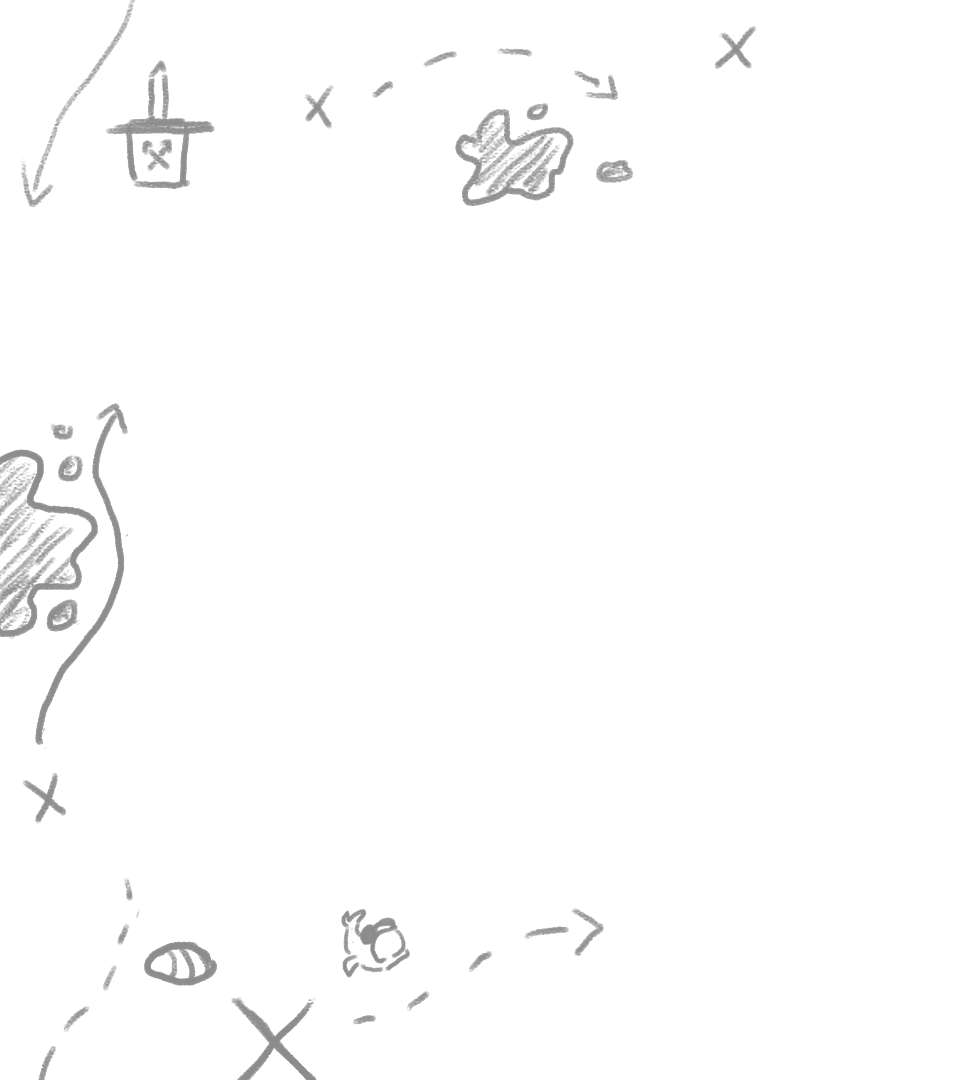
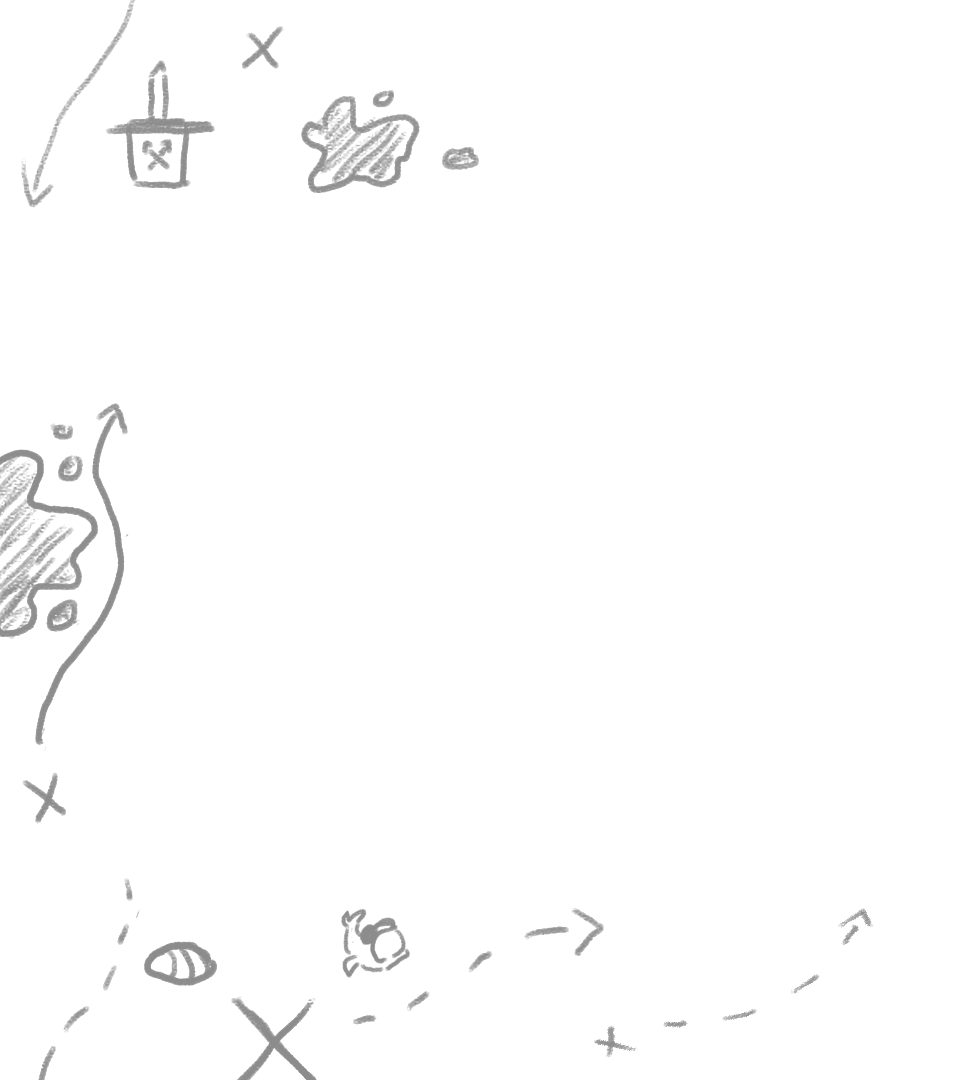
Break screen info bar

diff --git a/graphics/scripts/break.js b/graphics/scripts/break.js
@@ -44,6 +44,7 @@ currentBreakScene.on('change', (newValue, oldValue) => {
                 animDelay = 0.5 + (mapCount * 0.1);
             }
             toggleMainScene(true, animDelay);
+            toggleInfoBar(false);
             toggleNextUp(false);
             break;
         case 'teams':
@@ -54,11 +55,13 @@ currentBreakScene.on('change', (newValue, oldValue) => {
                 animDelay = 0.5 + (mapCount * 0.1);
             }
             toggleNextUp(true, animDelay);
+            toggleInfoBar(true, animDelay);
             break;
         case 'stages':
             toggleMainScene(false, 0);
             toggleNextUp(false);
             toggleStages(true, mapsDelay);
+            toggleInfoBar(true, mapsDelay);
             break;
         default:
             mapCount = toggleStages(false, 0);
@@ -161,6 +164,11 @@ function toggleNextUp(show, delay = 0) {
     }
 }
 
+function toggleInfoBar(show, delay = 0) {
+    const opacity = show ? 1 : 0;
+    gsap.to('.info-bar-wrapper', {opacity: opacity, duration: 0.5, delay: delay});
+}
+
 // Informative texts on main scene
 
 function measureText(text, fontFamily, fontSize, maxWidth, useInnerHTML = false) {
@@ -190,47 +198,36 @@ const breakMainTextProps = {
     maxWidth: 850
 }
 
-function setMainSceneText(textElemID, newText, tl) {
-    let textElem = document.querySelector(`#${textElemID}`);
-    if (textElem.getAttribute('text') === newText) return;
+function setMainSceneText(elem, newText, tl) {
+    if (elem.getAttribute('text') === newText) return;
 
-    tl.add(gsap.fromTo(textElem, {clipPath: 'polygon(0 0, 100% 0, 100% 100%, 0 100%)'}, {
+    let textElem = elem;
+    if (elem.tagName.toLowerCase() !== 'fitted-text') {
+        textElem = elem.querySelector('fitted-text');
+    }
+
+    tl.add(gsap.fromTo(elem, {clipPath: 'polygon(0 0, 100% 0, 100% 100%, 0 100%)'}, {
         ease: 'power1.inOut',
         duration: 0.75,
         clipPath: 'polygon(100% 0, 125% 0, 100% 100%, 100% 100%)',
         opacity: 0.5,
         onComplete: function () {
             textElem.setAttribute('text', newText);
-            textElem.style.clipPath = 'polygon(0 0, 0% 0, 0% 100%, 0% 100%)';
-            textElem.style.opacity = '1';
+            elem.style.clipPath = 'polygon(0 0, 0% 0, 0% 100%, 0% 100%)';
+            elem.style.opacity = '1';
         }
     }));
-    tl.add(gsap.to(textElem, {ease: 'power1.inOut', duration: 0.75, clipPath: 'polygon(0 0, 100% 0, 100% 100%, 0 100%)'}));
+    tl.add(gsap.to(elem, {
+        ease: 'power1.inOut',
+        duration: 0.75,
+        clipPath: 'polygon(0 0, 100% 0, 100% 100%, 0 100%)'
+    }));
 }
 
 const mainTextTL = gsap.timeline();
 
 mainFlavorText.on('change', newValue => {
-    setMainSceneText('breakFlavorText', newValue, mainTextTL);
-});
-
-const casterNamesTL = gsap.timeline();
-
-casters.on('change', newValue => {
-    // let castersText = '';
-    // Object.keys(newValue).forEach((item, index, arr) => {
-    //     const element = newValue[item];
-    //
-    //     castersText += `${element.name} <span class="pronoun">${element.pronouns}</span>`;
-    //
-    //     if (arr[index + 2]) {
-    //         castersText += ', ';
-    //     } else if (arr[index + 1]) {
-    //         castersText += ' & ';
-    //     }
-    // });
-    //
-    // setMainSceneText('breakCastersText', castersText, casterNamesTL);
+    setMainSceneText(document.getElementById('breakFlavorText'), newValue, mainTextTL);
 });
 
 const musicTL = gsap.timeline();
@@ -255,8 +252,12 @@ function getSongNameString(rep) {
 }
 
 NodeCG.waitForReplicants(nowPlaying).then(() => {
+    const topBarMusicTl = gsap.timeline();
+
     nowPlaying.on('change', newValue => {
-        setMainSceneText('breakMusicText', getSongNameString(newValue), musicTL);
+        setMainSceneText(document.getElementById('breakMusicText'), getSongNameString(newValue), musicTL);
+
+        setMainSceneText(document.querySelector('.info-row-music > div'), getSongNameString(newValue), topBarMusicTl);
     });
 });
 
@@ -539,7 +540,7 @@ const twitterLinks = ["@IPLSplatoon",
 
 function startTextLoop(arr, tl, elemID) {
     for (i = 0; i < arr.length; i++) {
-        setMainSceneText(elemID, arr[i], tl);
+        setMainSceneText(document.getElementById(elemID), arr[i], tl);
 
         if (i === arr.length - 1) {
             tl.add(gsap.to({}, {

diff --git a/graphics/break.html b/graphics/break.html
@@ -204,7 +204,8 @@
 			width: 1400px;
 			gap: 25px;
 			position: absolute;
-			bottom: 200px;
+			bottom: 150px;
+			z-index: 2;
 		}
 
 		.stageImage {
@@ -277,7 +278,7 @@
 			height: 65px;
 
 			position: absolute;
-			bottom: 50px;
+			top: 187px;
 
 			display: grid;
 			grid-template-rows: 1fr;
@@ -296,7 +297,7 @@
 		}
 
 		.teamNameBG fitted-text {
-			font-size: 2.5em;
+			font-size: 45px;
 			color: black;
 			margin: 10px;
 		}
@@ -308,8 +309,8 @@
 		.teamScoreBG {
 			background-color: var(--bgColor1);
 			color: white;
-			width: 65px;
-			height: 65px;
+			width: 60px;
+			height: 60px;
 			display: flex;
 			justify-content: center;
 			align-items: center;
@@ -317,7 +318,7 @@
 		}
 
 		.teamScoreBG fitted-text {
-			font-size: 3.5em;
+			font-size: 50px;
 			font-weight: 700;
 			margin-top: 1px;
 		}
@@ -489,6 +490,72 @@
 		div.stageArt2 {
 			background-image: url('./img/break-art/maps-half2.png');
 		}
+
+		.flex-align-center {
+			display: flex;
+			align-items: center;
+			justify-content: center;
+		}
+
+		.info-bar-wrapper {
+			width: 100vw;
+			height: 100px;
+
+			position: absolute;
+			top: 77px;
+			z-index: 6;
+		}
+
+		.info-bar {
+			width: 1400px;
+			height: 100px;
+
+			position: absolute;
+			z-index: 3;
+
+			border-radius: 10px;
+		}
+
+		.info-bar > .info-row {
+			color: black;
+			position: absolute;
+			width: max-content;
+			font-size: 55px;
+			font-weight: 600;
+		}
+
+		.info-row-welcome {
+			font-weight: 600;
+		}
+
+		.info-row-welcome .logo-font {
+			font-size: 45px;
+			font-family: 'Georgia';
+			font-weight: bold;
+			color: #FE763C;
+		}
+
+		.info-row-welcome .small-logo > img {
+			height: 35px;
+			margin: 10px 15px 0;
+		}
+
+		.info-row-commentators .commentators > i {
+			font-size: 50px;
+		}
+
+		.info-row-commentators .commentators span.pronoun {
+			background-color: black;
+			color: white;
+			padding: 1px 5px;
+			border-radius: 5px;
+			font-size: 30px;
+		}
+
+		.info-row > div {
+			display: flex;
+		}
+
 	</style>
 </head>
 <body>
@@ -574,6 +641,36 @@
 		</div>
 	</div>
 
+	<div class="info-bar-wrapper flex-align-center">
+		<div class="info-bar flex-align-center">
+			<div class="info-row info-row-welcome flex-align-center">
+				<div class="flex-align-center">
+					Welcome to a<span class="small-logo"><img src="img/thick-checkmark.png"></span><span
+						class="logo-font">Checkpoint 1&nbsp;</span>tournament!
+				</div>
+			</div>
+			<div class="info-row info-row-commentators info-row-commentator-names flex-align-center">
+				<div class="commentators flex-align-center">
+					<i class="fas fa-microphone"></i>&nbsp;<fitted-text id="info-row-casters-text" useInnerHTML
+																			text="Casters" max-width="1300"></fitted-text>
+				</div>
+			</div>
+			<div class="info-row info-row-commentators flex-align-center">
+				<div class="commentators flex-align-center">
+					<i class="fab fa-twitter"></i>&nbsp;<fitted-text id="info-row-casters-twitter-text" useInnerHTML
+																	 text="Casters" max-width="1300"></fitted-text>
+				</div>
+			</div>
+			<div class="info-row info-row-music flex-align-center">
+				<div>
+					<i class="fas fa-music" id="info-row-music-icon"></i>&nbsp;<fitted-text id="info-row-music-text"
+																							text="Music"
+																							max-width="1300"></fitted-text>
+				</div>
+			</div>
+		</div>
+	</div>
+
 	<div class="gridBG"></div>
 	<div class="contentBG"></div>
 
@@ -584,5 +681,7 @@
 	<script src="../node_modules/gsap/dist/gsap.js"></script>
 	<script src="../node_modules/fitted-text/dist/fitted-text.js"></script>
 	<script src="scripts/break.js"></script>
+	<script src="scripts/infoBar.js"></script>
+	<script src="scripts/casters.js"></script>
 </body>
 </html>

diff --git a/graphics/scripts/casters.js b/graphics/scripts/casters.js
@@ -1,0 +1,54 @@
+const topBarCasterElem = document.getElementById('info-row-casters-text');
+const topBarTwitterElem = document.getElementById('info-row-casters-twitter-text');
+const topBarCastersTl = gsap.timeline();
+
+casters.on('change', (newValue, oldValue) => {
+	let castersText = '';
+	let twittersText = '';
+
+	let updateTwitters = (oldValue === undefined);
+	let updateNames = (oldValue === undefined);
+
+	Object.keys(newValue).forEach((item, index, arr) => {
+		const element = newValue[item];
+
+		if (oldValue) {
+			const oldElement = oldValue[item];
+
+			if (element.pronouns !== oldElement.pronouns) {
+				updateNames = true;
+				updateTwitters = true;
+			} else {
+				if (element.twitter !== oldElement.twitter) {
+					updateTwitters = true;
+				}
+				if (element.name !== oldElement.name) {
+					updateNames = true;
+				}
+			}
+		}
+
+		castersText += `${element.name} <span class="pronoun">${element.pronouns}</span>`;
+		twittersText += `${element.twitter} <span class="pronoun">${element.pronouns}</span>`;
+
+		if (arr[index + 2]) {
+			castersText += ', ';
+			twittersText += ', ';
+		} else if (arr[index + 1]) {
+			castersText += ' & ';
+			twittersText += ' & ';
+		}
+	});
+
+	if (updateNames) {
+		setMainSceneText(topBarCasterElem.parentNode, castersText, topBarCastersTl);
+	}
+
+	if (updateTwitters) {
+		setMainSceneText(topBarTwitterElem.parentNode, twittersText, topBarCastersTl);
+	}
+});
+
+function getIcon(elem) {
+	return elem.parentNode.querySelector('i');
+}

diff --git a/graphics/scripts/infoBar.js b/graphics/scripts/infoBar.js
@@ -1,0 +1,45 @@
+const topBarInfoRows = document.querySelectorAll('.info-bar > .info-row');
+let topInfoTl;
+
+function setTopBarAnim() {
+    const switchDelay = 10;
+
+    if (topInfoTl) {
+        topInfoTl.kill();
+    }
+    topInfoTl = gsap.timeline({repeat: -1});
+
+    for (let i = 0; i < topBarInfoRows.length; i++) {
+        const elem = topBarInfoRows[i];
+
+        if (!musicShown.value && elem.classList.contains('info-row-music')) {
+            gsap.set(elem, {opacity: 0});
+            continue;
+        }
+
+        topInfoTl.add(gsap.fromTo(elem, {opacity: 1, clipPath: 'polygon(0 0, 0% 0, 0% 100%, 0% 100%)'}, {
+            clipPath: 'polygon(0 0, 100% 0, 100% 100%, 0 100%)',
+            duration: 0.75,
+            ease: 'power1.inOut',
+            force3D: false
+        }));
+
+        if (elem.classList.contains('info-row-commentators')) {
+            topInfoTl.add(gsap.to({}, {duration: switchDelay / 2}));
+        } else {
+            topInfoTl.add(gsap.to({}, {duration: switchDelay}));
+        }
+
+        topInfoTl.add(gsap.to(elem, {
+            clipPath: 'polygon(100% 0, 100% 0, 100% 100%, 100% 100%)',
+            duration: 0.75,
+            opacity: 1,
+            ease: 'power1.inOut',
+            force3D: false
+        }));
+    }
+}
+
+musicShown.on('change', newValue => {
+    setTopBarAnim();
+});
